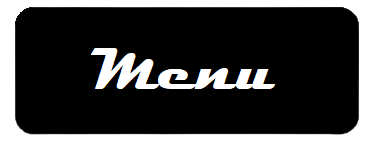
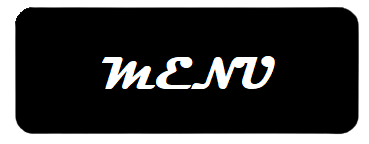
put buttons in tables, updated button textures

diff --git a/core/src/com/mygdx/blackjack/Screens/MainMenuScreen.java b/core/src/com/mygdx/blackjack/Screens/MainMenuScreen.java
@@ -4,28 +4,21 @@ import com.badlogic.gdx.Gdx;
 import com.badlogic.gdx.Screen;
 import com.badlogic.gdx.graphics.OrthographicCamera;
 import com.badlogic.gdx.graphics.Texture;
-import com.badlogic.gdx.graphics.g2d.TextureRegion;
 import com.badlogic.gdx.scenes.scene2d.*;
 import com.badlogic.gdx.scenes.scene2d.ui.*;
-
-import com.badlogic.gdx.scenes.scene2d.utils.TextureRegionDrawable;
 import com.badlogic.gdx.utils.ScreenUtils;
 import com.badlogic.gdx.utils.viewport.ScreenViewport;
 import com.badlogic.gdx.scenes.scene2d.Stage;
 import com.mygdx.blackjack.Blackjack;
-import com.mygdx.blackjack.Screens.GameScreen;
+import com.mygdx.blackjack.Functions.Utilities;
+
 
 public class MainMenuScreen implements Screen {
 
     final Blackjack game;
     final Stage stage;
     OrthographicCamera camera;
-    Texture playButtonTexture;
-    Texture playButtonActiveTexture;
-    TextureRegion playButtonRegion;
-    TextureRegionDrawable playButtonDraw;
-    Actor playButton;
-    ImageButton.ImageButtonStyle playStyle;
+
     public MainMenuScreen(final Blackjack game) {
         this.game = game;
 
@@ -64,17 +57,10 @@ public class MainMenuScreen implements Screen {
         title.setWidth(Gdx.graphics.getWidth() / 2f);
         stage.addActor(title);
 
-        playButtonTexture = new Texture("start.png");
-        playButtonActiveTexture = new Texture("start_hover.png");
-        playButtonRegion = new TextureRegion(playButtonTexture);
-        playButtonDraw = new TextureRegionDrawable(playButtonRegion);
-        TextureRegion playButtonRegionActive = new TextureRegion(playButtonActiveTexture);
-        TextureRegionDrawable  playButtonDrawActive = new TextureRegionDrawable(playButtonRegionActive);
-        playStyle = new ImageButton.ImageButtonStyle();
-        playStyle.up = playButtonDraw;
-        playStyle.over = playButtonDrawActive;
 
-        playButton = new ImageButton(playStyle); //Set the button up
+
+        Actor playButton = Utilities.createButton("start.png", "start_hover.png");
+        //playButton = new ImageButton(playStyle); //Set the button up
 
 
 
@@ -93,18 +79,7 @@ public class MainMenuScreen implements Screen {
 
 
 
-        Texture exitTexture = new Texture("exit.png");
-        Texture exitTextureActive = new Texture("exit_hover.png");
-        TextureRegion exitRegion = new TextureRegion(exitTexture);
-        TextureRegion exitRegionActive = new TextureRegion(exitTextureActive);
-        TextureRegionDrawable exitDraw = new TextureRegionDrawable(exitRegion);
-        TextureRegionDrawable exitDrawActive = new TextureRegionDrawable(exitRegionActive);
-
-        ImageButton.ImageButtonStyle exitStyle = new ImageButton.ImageButtonStyle();
-        exitStyle.up = exitDraw;
-        exitStyle.over = exitDrawActive;
-
-        Actor exitButton = new ImageButton(exitStyle); //Set the button up
+        Actor exitButton = Utilities.createButton("exit.png", "exit_hover.png");
 
         exitButton.addListener(new InputListener() {
             @Override
@@ -119,16 +94,23 @@ public class MainMenuScreen implements Screen {
 
         });
        // playButton.setWidth(Gdx.graphics.getWidth() / 2f);
-        playButton.setPosition(
-                Gdx.graphics.getWidth() / 2f - playButton.getWidth() / 2f,
-                Gdx.graphics.getHeight() / 2f - playButton.getHeight() / 3f);
+       // playButton.setPosition(
+       //         Gdx.graphics.getWidth() / 2f - playButton.getWidth() / 2f,
+       //         Gdx.graphics.getHeight() / 2f - playButton.getHeight() / 3f);
 
       //  exitButton.setWidth(Gdx.graphics.getWidth() / 2f);
-        exitButton.setPosition(
-                Gdx.graphics.getWidth() / 2f - exitButton.getWidth() / 2f,
-                Gdx.graphics.getHeight() / 4f - exitButton.getHeight() / 2f);
-        stage.addActor(playButton);
-        stage.addActor(exitButton);
+      //  exitButton.setPosition(
+      //          Gdx.graphics.getWidth() / 2f - exitButton.getWidth() / 2f,
+      //          Gdx.graphics.getHeight() / 4f - exitButton.getHeight() / 2f);
+      //  stage.addActor(playButton);
+      //  stage.addActor(exitButton);
+        Table table = new Table();
+        table.setFillParent(true);
+        stage.addActor(table);
+        table.padTop(100);
+        table.add(playButton);
+        table.row().padTop(10);
+        table.add(exitButton);
         Gdx.input.setInputProcessor(stage);
 
     }

diff --git a/core/src/com/mygdx/blackjack/Screens/GameScreen.java b/core/src/com/mygdx/blackjack/Screens/GameScreen.java
@@ -12,6 +12,7 @@ import com.badlogic.gdx.scenes.scene2d.InputListener;
 import com.badlogic.gdx.scenes.scene2d.Stage;
 import com.badlogic.gdx.scenes.scene2d.ui.Image;
 
+import com.badlogic.gdx.scenes.scene2d.ui.Table;
 import com.badlogic.gdx.utils.ScreenUtils;
 import com.badlogic.gdx.utils.viewport.ScreenViewport;
 import com.mygdx.blackjack.Blackjack;
@@ -77,7 +78,7 @@ public class GameScreen implements Screen {
     public void dealerLoop(Player p2){
         // dealer turn
         while (!gameover){
-            if  (p2.getTotal() < 16){
+            if  (p2.getTotal() < 17){
                 p2.addCard(picked);
                 displayDeck(p2, true);
                 try{
@@ -160,10 +161,10 @@ public class GameScreen implements Screen {
 
         });
 
-        addButton.setPosition(
-                Gdx.graphics.getWidth() - addButton.getWidth(),
-                Gdx.graphics.getHeight() - addButton.getHeight());
-        stage.addActor(addButton);
+       // addButton.setPosition(
+       //         Gdx.graphics.getWidth() - addButton.getWidth(),
+       //         Gdx.graphics.getHeight() - addButton.getHeight());
+       // stage.addActor(addButton);
 
         Actor exitButton = Utilities.createButton("exit.png", "exit_hover.png"); //Set the button up
 
@@ -181,12 +182,12 @@ public class GameScreen implements Screen {
 
         });
 
-        exitButton.setPosition(
-                Gdx.graphics.getWidth()  - exitButton.getWidth(),
-                Gdx.graphics.getHeight() / 5f - exitButton.getHeight());
+     //   exitButton.setPosition(
+     //           Gdx.graphics.getWidth()  - exitButton.getWidth(),
+     //           Gdx.graphics.getHeight() / 5f - exitButton.getHeight());
 
 
-        stage.addActor(exitButton);
+     //   stage.addActor(exitButton);
 
 
         Actor changeButton = Utilities.createButton("stay.png", "stay_hover.png"); //Set the button up
@@ -205,12 +206,21 @@ public class GameScreen implements Screen {
 
         });
 
-        changeButton.setPosition(
-                Gdx.graphics.getWidth()  - changeButton.getWidth(),
-                Gdx.graphics.getHeight() / 3f + 0.4f* changeButton.getHeight());
+      //  changeButton.setPosition(
+      //          Gdx.graphics.getWidth()  - changeButton.getWidth(),
+      //          Gdx.graphics.getHeight() / 3f + 0.4f* changeButton.getHeight());
 
 
-        stage.addActor(changeButton);
+      //  stage.addActor(changeButton);
+        Table table = new Table();
+        //table.setFillParent(true);
+        stage.addActor(table);
+        table.setPosition(0.85f*Gdx.graphics.getWidth(), 0.5f*Gdx.graphics.getHeight());
+        table.add(addButton);
+        table.row().padTop(100);
+        table.add(changeButton);
+        table.row().padTop(100);
+        table.add(exitButton);
 
         Gdx.input.setInputProcessor(stage);
 

diff --git a/core/src/com/mygdx/blackjack/Screens/EndScreen.java b/core/src/com/mygdx/blackjack/Screens/EndScreen.java
@@ -10,6 +10,7 @@ import com.badlogic.gdx.scenes.scene2d.InputListener;
 import com.badlogic.gdx.scenes.scene2d.Stage;
 import com.badlogic.gdx.scenes.scene2d.ui.Image;
 import com.badlogic.gdx.scenes.scene2d.ui.Label;
+import com.badlogic.gdx.scenes.scene2d.ui.Table;
 import com.badlogic.gdx.utils.ScreenUtils;
 import com.badlogic.gdx.utils.viewport.ScreenViewport;
 import com.mygdx.blackjack.Blackjack;
@@ -104,11 +105,12 @@ public class EndScreen implements Screen {
             }
 
         });
-        exitButton.setPosition(
-                Gdx.graphics.getWidth()  - exitButton.getWidth(),
-                Gdx.graphics.getHeight() / 5f - exitButton.getHeight());
+       // exitButton.setPosition(
+       //         Gdx.graphics.getWidth()  - exitButton.getWidth(),
+       //         Gdx.graphics.getHeight() / 5f - exitButton.getHeight());
 
-        stage.addActor(exitButton);
+       //
+        // ##]]]]]]stage.addActor(exitButton);
 
         Actor menuButton = Utilities.createButton("menu.png", "menu_hover.png");
         menuButton.addListener(new InputListener() {
@@ -124,12 +126,11 @@ public class EndScreen implements Screen {
             }
 
         });
-        menuButton.setPosition(
-                Gdx.graphics.getWidth()  - exitButton.getWidth(),
-                Gdx.graphics.getHeight() / 3f);
+       // menuButton.setPosition(
+       //         Gdx.graphics.getWidth()  - exitButton.getWidth(),
+       //         Gdx.graphics.getHeight() / 3f);
 
-        stage.addActor(menuButton);
-
+       // stage.addActor(menuButton);
         Actor resetButton = Utilities.createButton("reset.png", "reset_hover.png");
         resetButton.addListener(new InputListener() {
             @Override
@@ -144,13 +145,21 @@ public class EndScreen implements Screen {
             }
 
         });
-        resetButton.setPosition(
-                Gdx.graphics.getWidth()  - resetButton.getWidth(),
-                Gdx.graphics.getHeight()  - resetButton.getHeight());
+       // resetButton.setPosition(
+       //         Gdx.graphics.getWidth()  - resetButton.getWidth(),
+       //         Gdx.graphics.getHeight()  - resetButton.getHeight());
 
-        stage.addActor(resetButton);
+       // stage.addActor(resetButton);
 
-
+        Table table = new Table();
+        //table.setFillParent(true);
+        stage.addActor(table);
+        table.setPosition(0.85f*Gdx.graphics.getWidth(), 0.5f*Gdx.graphics.getHeight());
+        table.add(menuButton);
+        table.row().padTop(100);
+        table.add(resetButton);
+        table.row().padTop(100);
+        table.add(exitButton);
 
         Gdx.input.setInputProcessor(stage);
 
